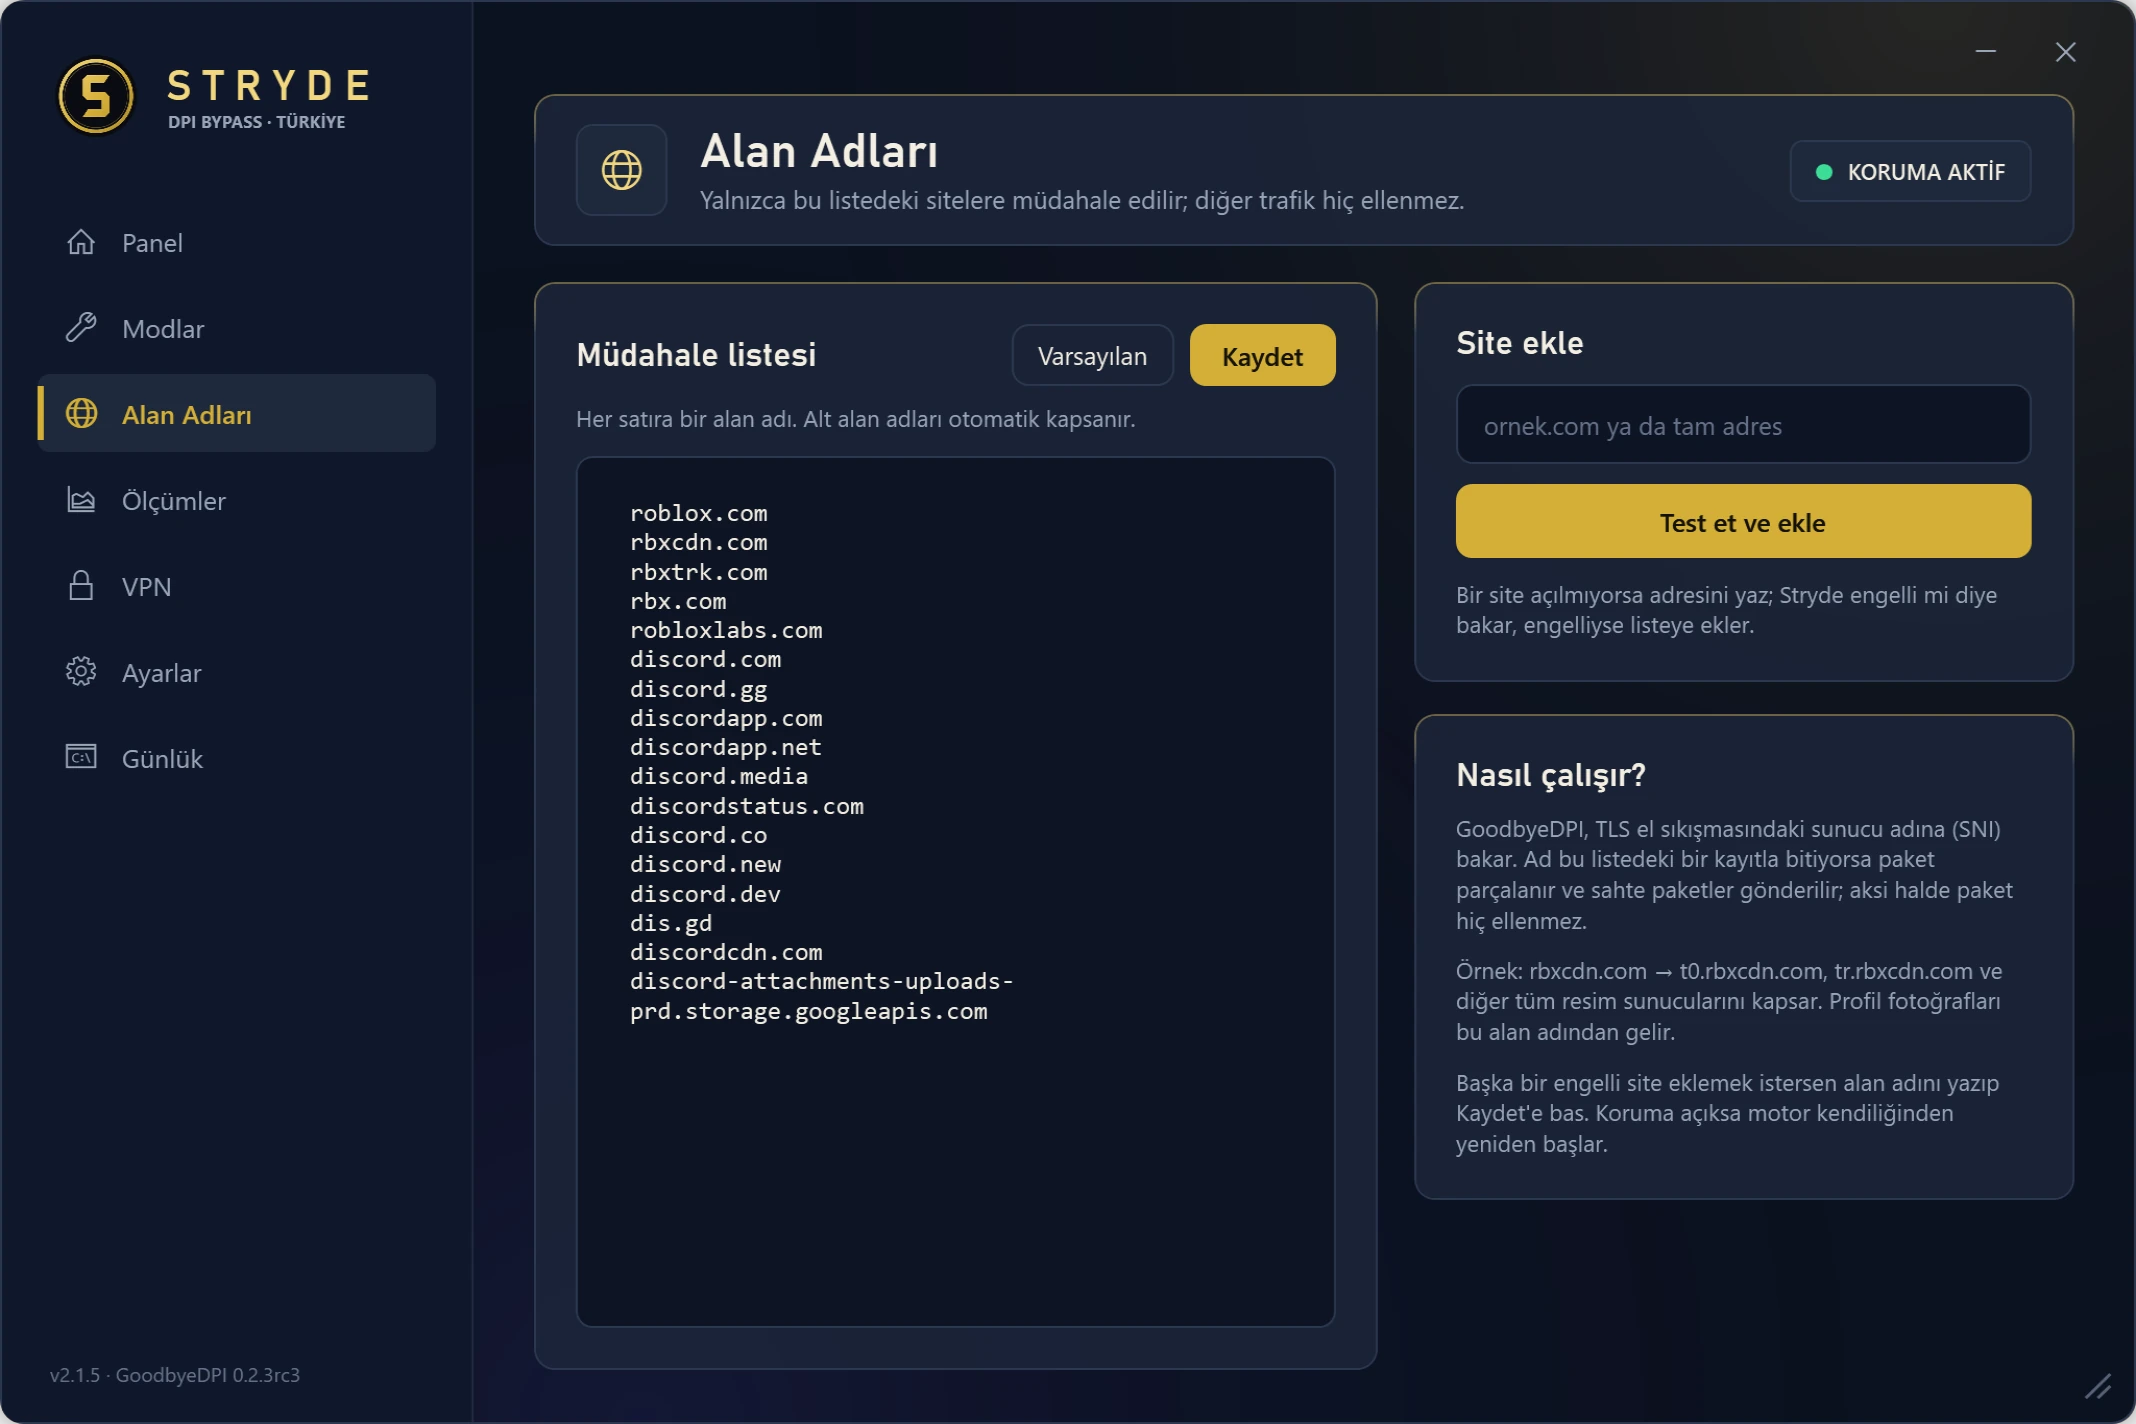
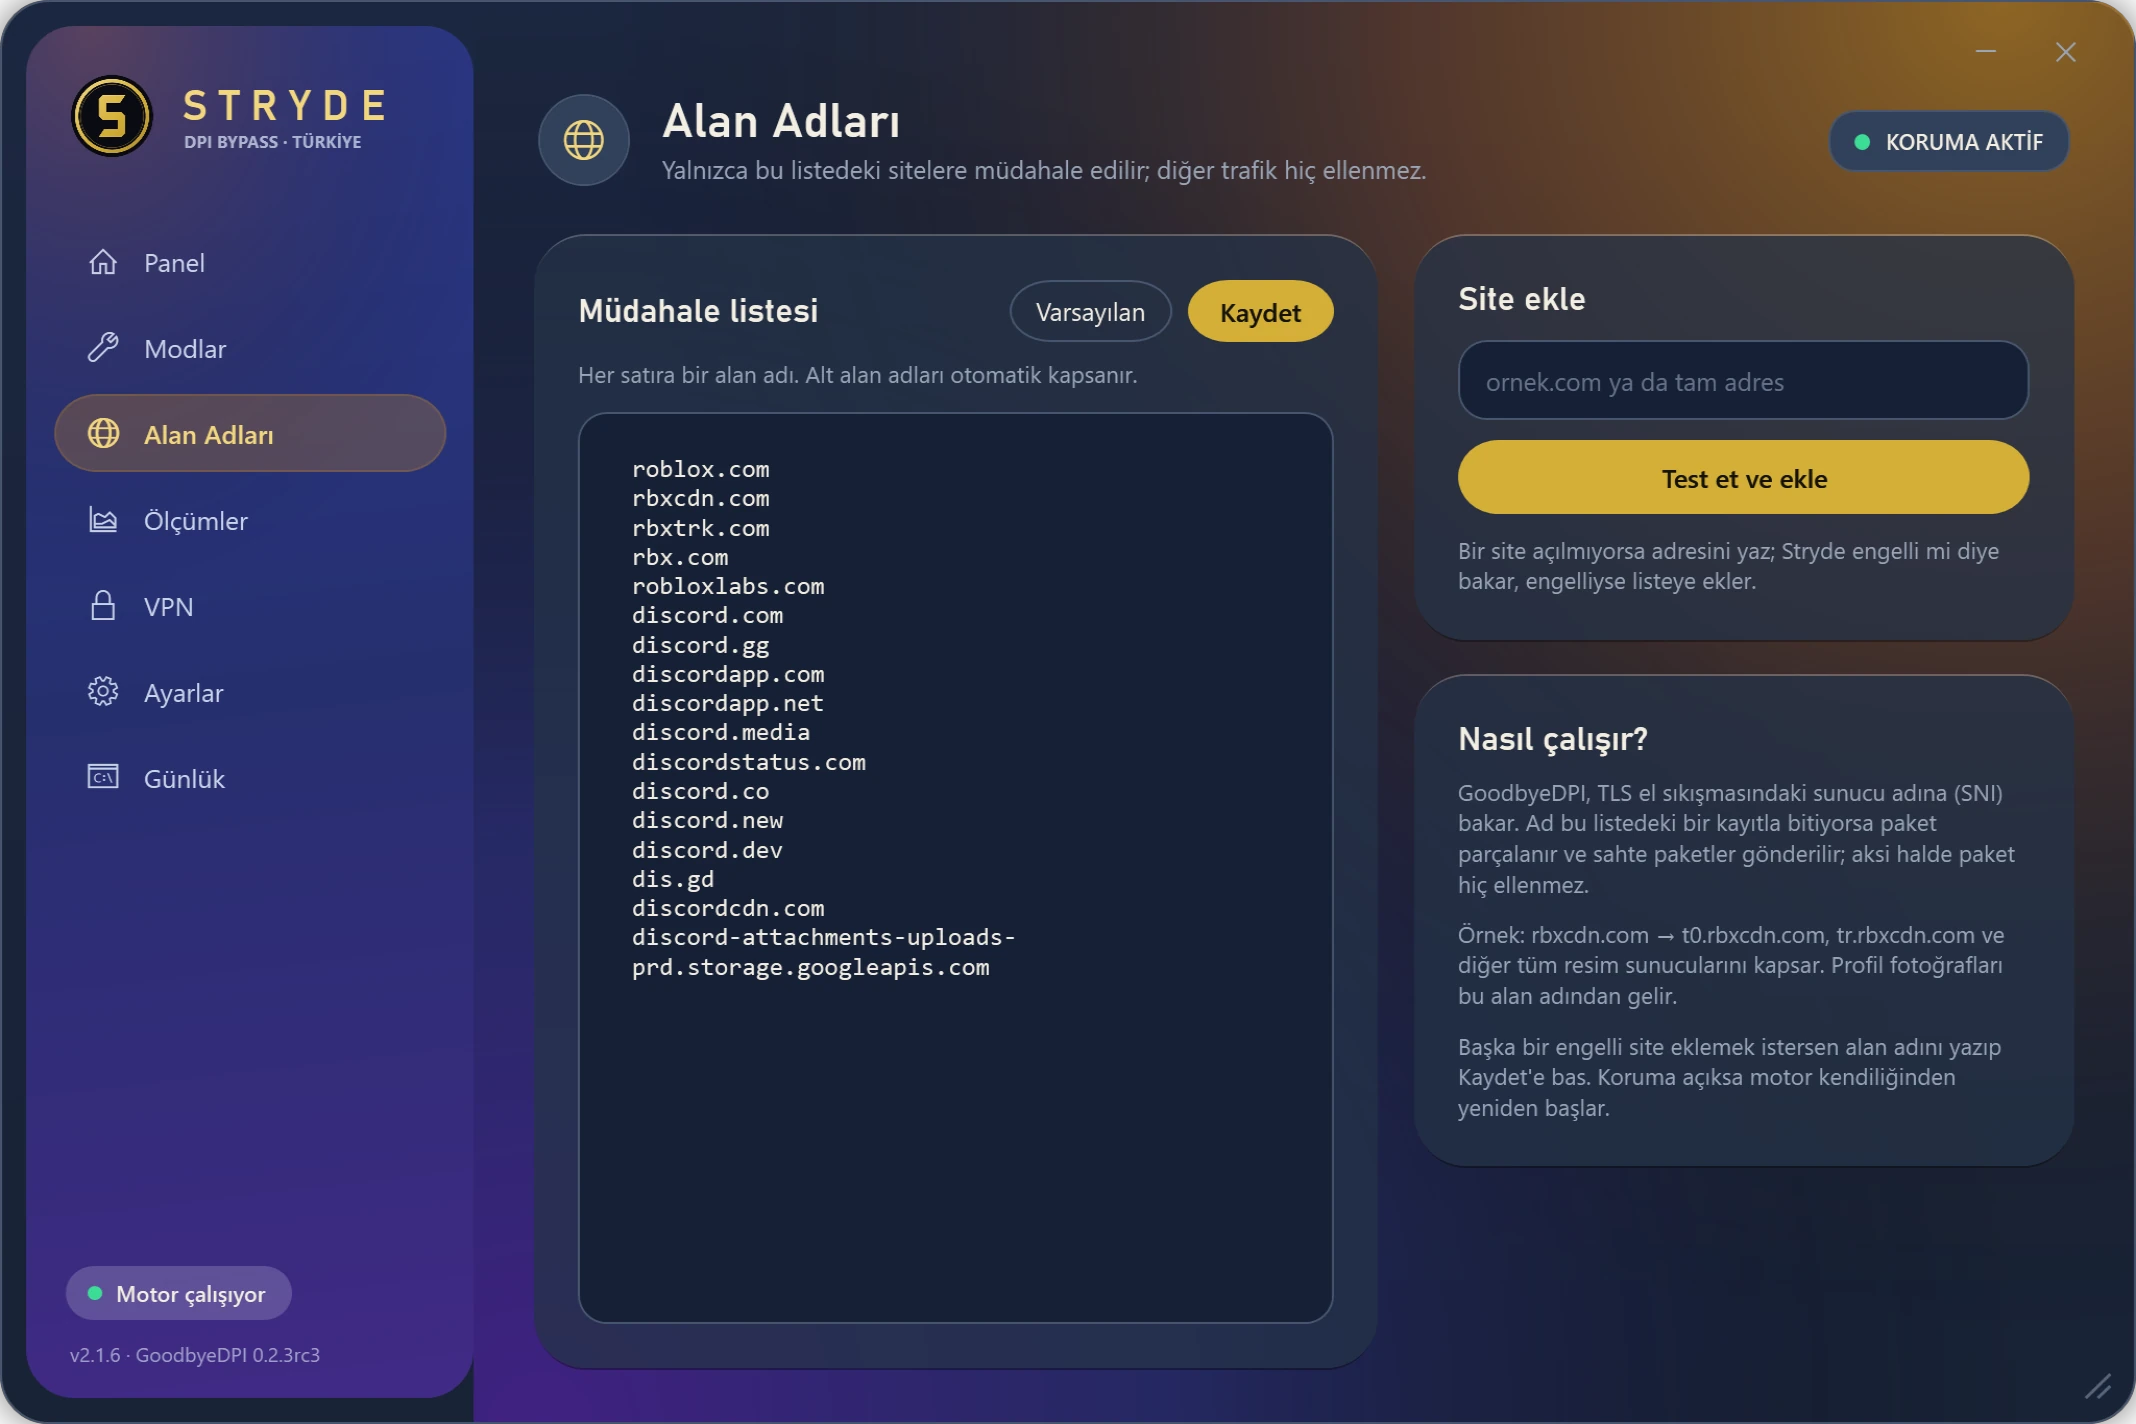
Ekran görüntüleri yeni görünümle yenilendi, sürüm listesi: 2.1.6

diff --git a/docs/index.html b/docs/index.html
@@ -110,7 +110,7 @@
   .elsewhere p { margin: 0 0 10px; }
   .window { margin-top: clamp(40px, 5vw, 72px); }
   /* Uygulama görüntüleri sayfanın zeminine değil, uygulamanın kendi lacivertine oturur: açık temada da koyu temada da uyumlu durur */
-  .stage { background: #0B1120; border-radius: 6px; padding: clamp(12px, 4vw, 56px); }
+  .stage { background: #182235; border-radius: 6px; padding: clamp(12px, 4vw, 56px); }
   .stage img { width: 100%; }
   .shots .stage { padding: clamp(10px, 1.8vw, 22px); }
 
@@ -339,9 +339,9 @@
       </div>
       <div>
         <ul class="log" id="surumler">
+          <li><b>2.1.6<time datetime="2026-11-15">15 Kasım 2026</time></b><span>Yeni görünüm: renkli ve yuvarlak sol menü, kutusundan çıkmış güç düğmesi, yumuşak köşeli cam kartlar, hap biçimli düğmeler ve belirgin ortam ışığı.</span></li>
           <li><b>2.1.5<time datetime="2026-11-15">15 Kasım 2026</time></b><span>Biraz atmosfer geri geldi: arkada çok hafif ortam ışığı, üst kenarı ışıklı yükseltilmiş kartlar ve koruma açıkken güç düğmesinde yumuşak hare.</span></li>
           <li><b>2.1.4<time datetime="2026-11-15">15 Kasım 2026</time></b><span>Daha sade ve keskin görünüm: mat yüzeyler, gradyan ve parlama yok, yeni elmas imleç ve düzenlenmiş sayfalar.</span></li>
-          <li><b>2.1.3<time datetime="2026-11-15">15 Kasım 2026</time></b><span>İmleçler yenilendi: altın çerçeveli lacivert ok, tıklanabilir yerlerde altın el ve Stryde çalışırken dönen dişli çark.</span></li>
         </ul>
         <p class="more"><a href="https://github.com/Nestyyyyyy/stryde/releases" rel="noopener">Tüm sürümler</a></p>
       </div>
